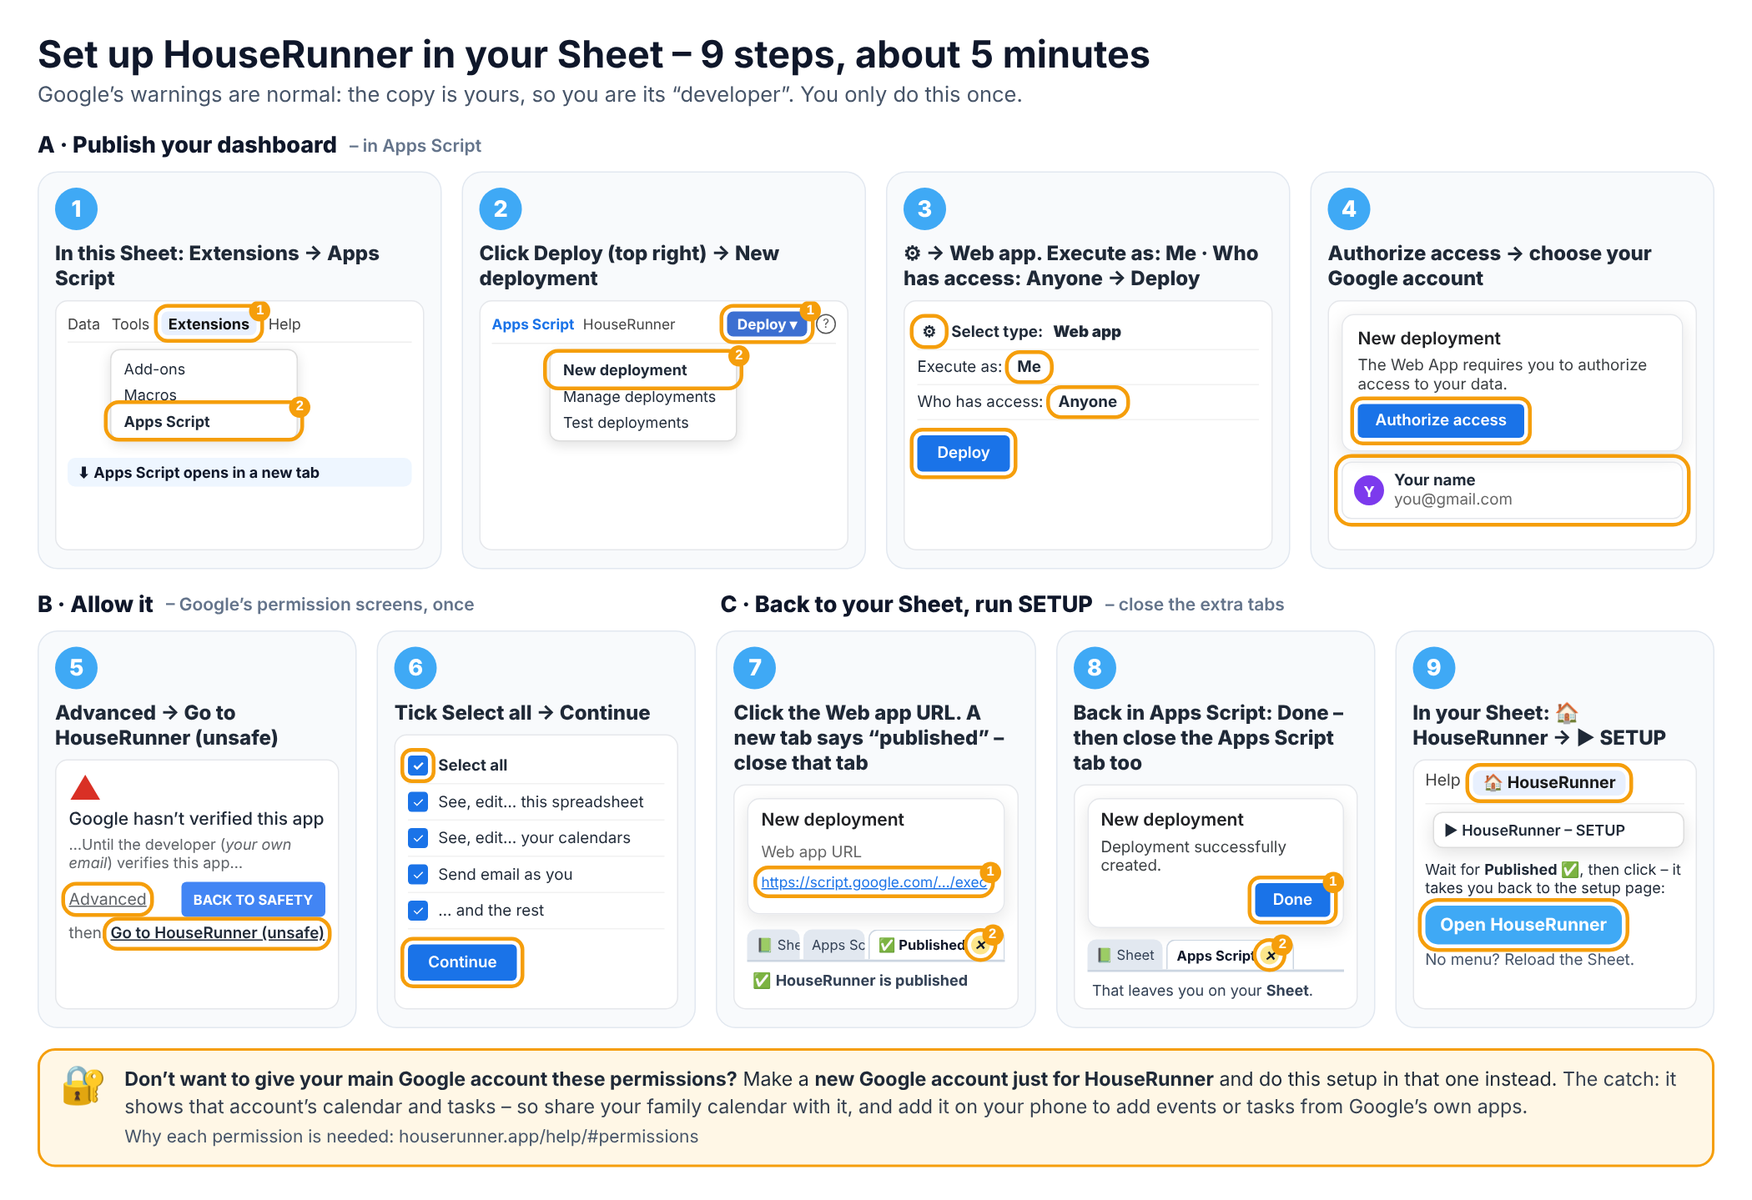
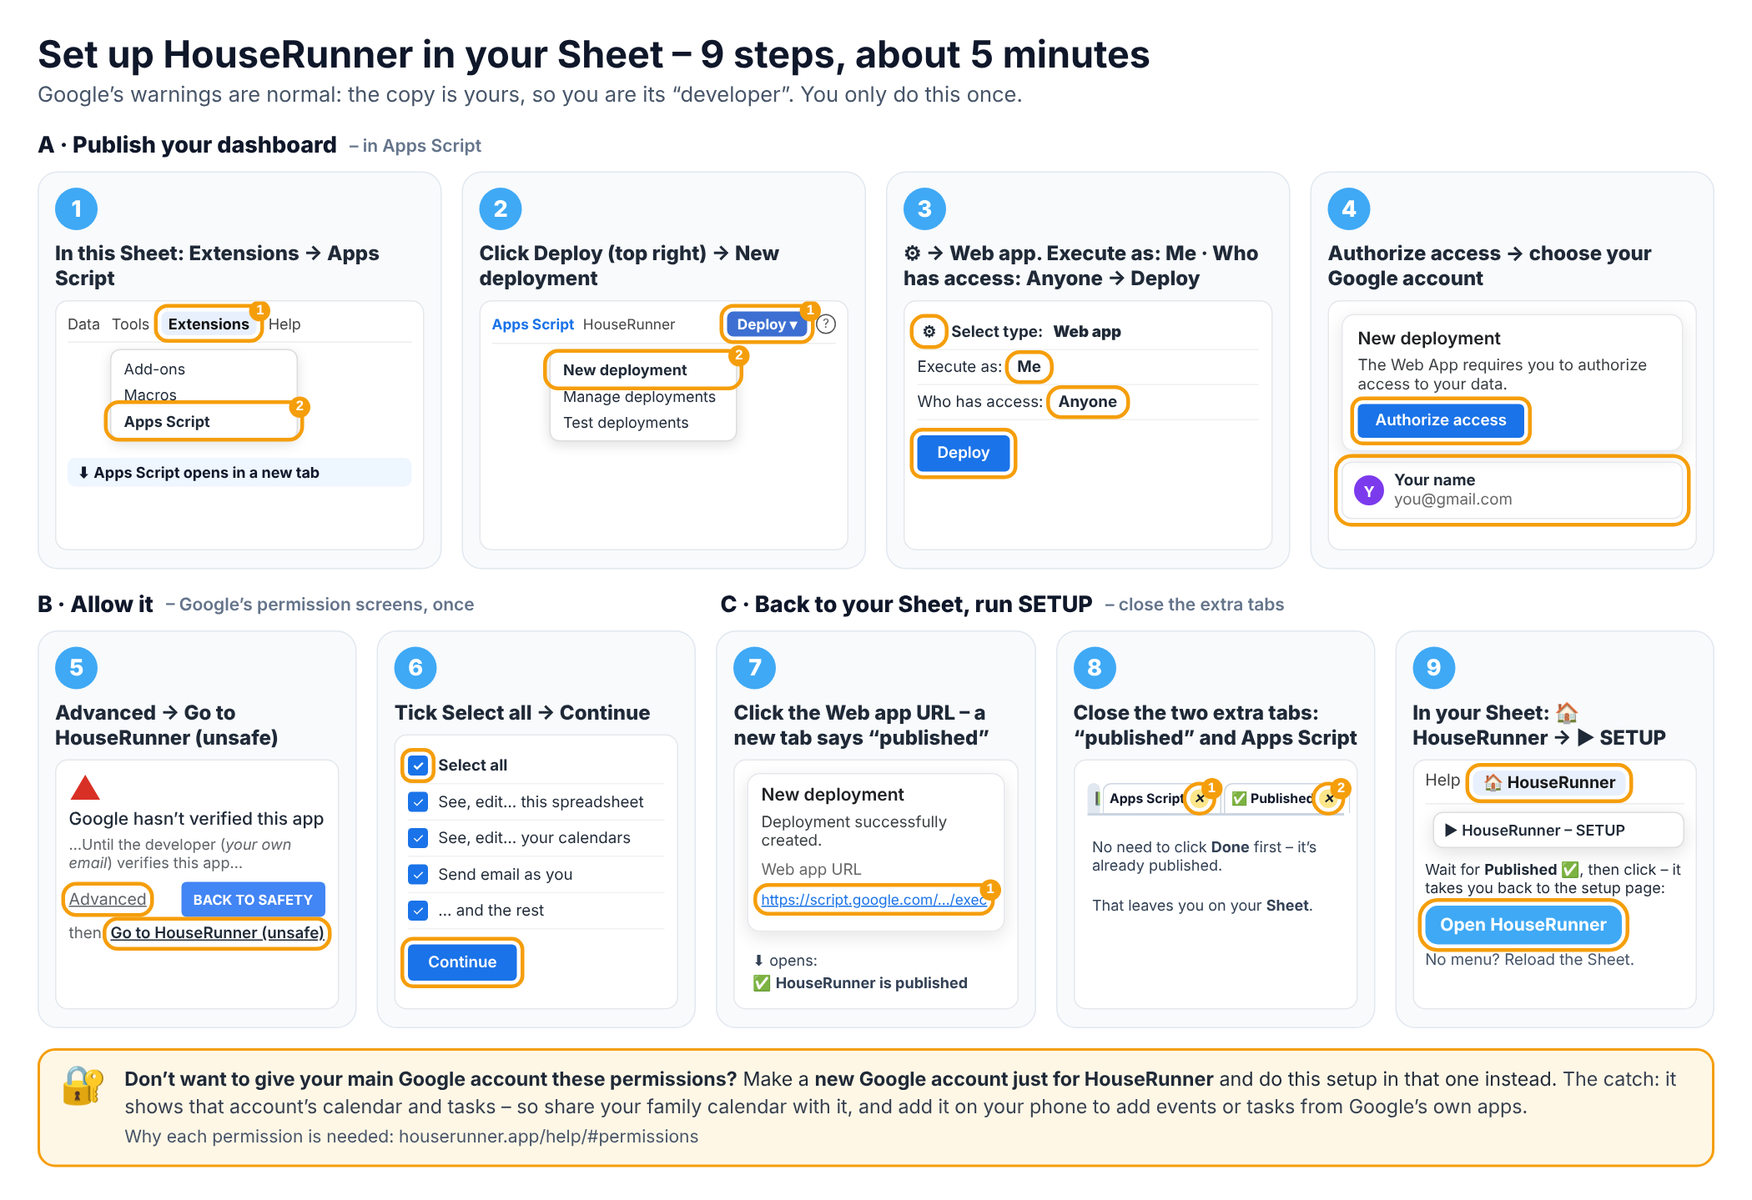
2026.11.292: instant hand-back, close-the-Sheet message, Privacy notice step
Claude-Session: https://claude.ai/code/session_01R2kV4GW3UVFR51NzUKtdLQ

Changed region(s): [[0.619, 0.581, 0.7738, 0.8256], [0.4024, 0.6115, 0.5881, 0.8256]]

diff --git a/setup/guide/setup.js b/setup/guide/setup.js
@@ -678,6 +678,8 @@
     var NEW = [
         { id: 'start', title: 'Make your Google Sheet', render: function () {
             if (connected()) return OLD.sheet.render();
+            if (window.hrConnecting) return '<h1>⏳ Connecting to your new Sheet…</h1><p class="lead">Your Sheet says it’s published – this page is connecting to it now. Google can take up to a minute after publishing; it keeps trying by itself.</p>' +
+                '<div class="status">⏳ Connecting…</div>';
             if (window.hrCopiedNow) return '<h1>⏳ Over to your new Sheet</h1>' +       // straight after Make my copy: one clear thing to do
                 '<p class="lead">Your copy opened in a new tab. <b>Follow the 9 steps on its Start HERE tab</b> – they look like this (click to enlarge):</p>' +
                 '<div class="card big" id="floatCard" style="margin:0 0 16px"><h3>📌 Keep the steps in view</h3><p>' + (window.HRFloat && HRFloat.floats ? 'A small window with the steps, one at a time, that <b>stays on top</b> while you work in the Sheet and Apps Script tabs.' : 'A small window with the steps, one at a time, to keep beside the Sheet while you work.') + '</p>' +
@@ -716,11 +718,12 @@
         }, ready: function () { return connected(); },
            blocked: 'Not connected yet – finish the steps in your Sheet (🏠 HouseRunner → ▶ HouseRunner – SETUP). This page carries on by itself.' },
         OLD.publish,
-        { id: 'welcome', title: 'Welcome', render: function () {
+        { id: 'welcome', title: 'Privacy notice', render: function () {
             if (connected() && !S.mode) return OLD.welcome.render();      // run again on a family that's set up: change it, or clear and start again?
             return (S.mode === 'fresh' && S.backup ? '<div class="note ok">🧹 Cleared, ready to set up again. Your backup is <a href="' + esc(S.backup.url) + '" target="_blank" rel="noopener">' + esc(S.backup.name) + '</a> in your Google Drive.</div>' : '') +
-                '<h1>Welcome</h1><p class="lead">' + (connected() ? 'Your Google Sheet is connected. ' : '') + 'A few short steps to go: this one, your licence key, your family, your calendar, and connecting your screen and phones.</p>' +
-                bare(OLD.privacy.render()).replace(/^\s*<p class="lead">[\s\S]*?<\/p>/, '<p>First, what HouseRunner keeps about your family, and where. In short – everything stays in your own Google account.</p>');
+                (window.hrArrived && connected() ? '<div class="note ok arrived big-ok"><h2>✅ Your Google Sheet is made and connected</h2><p>That part’s done – you can close any Sheet or Apps Script tabs still open. Now the rest of the setup, here: the privacy notice, your licence key, your family, your calendar, and connecting your screen and phones.</p></div>' : '') +
+                '<h1>Privacy notice</h1><p class="lead">' + (connected() && !window.hrArrived ? 'Your Google Sheet is connected. ' : '') + 'What HouseRunner keeps about your family, and where. In short – everything stays in your own Google account.</p>' +
+                bare(OLD.privacy.render()).replace(/^\s*<p class="lead">[\s\S]*?<\/p>/, '');
         }, wire: function () { OLD.welcome.wire(); OLD.privacy.wire(); },
            ready: function () { return (!connected() || !!S.mode) && S.privacy === P.version; },
            blocked: 'Tick the box to accept the privacy notice first' },
@@ -968,23 +971,50 @@
     // Connected in another tab (the Sheet's "Open HouseRunner" opens a new one): this tab catches up too
     // The setup tabs talk on one channel: "anyone" (a tab the Sheet just opened asks whether the setup tab is still open) → "here"
     var HRB = { postMessage: function () {} }; try { HRB = new BroadcastChannel('hr-setup'); } catch (e) { /* older browser */ }
-    var hrbListen = function (e) { if (e && e.data === 'anyone') { try { HRB.postMessage('here'); } catch (x) { /* fine */ } } else catchUp(); };
+    var hrbListen = function (e) {
+        if (e && e.data === 'anyone') { try { HRB.postMessage('here'); } catch (x) { /* fine */ } }
+        else if (e && e.data === 'connect') takeOver();
+        else catchUp();
+    };
+    /** The Sheet's "Open HouseRunner" opened a new tab, which handed over to this one: connect here, and carry on here. */
+    var takeOver = function () {
+        if (window.hrConnecting) return;
+        var mine = S.step; S = load(); S.step = mine;
+        ADM = null; LICP = null; window.hrCopiedNow = false; window.hrConnecting = true; render();
+        try { window.focus(); } catch (e) { /* the browser decides */ }
+        var tries = 0;
+        (function one() {
+            connect(true).then(function (ok) {
+                if (ok) {
+                    if (!S.mode) S.mode = 'new';
+                    var ids = STEPS.map(function (x) { return x.id; });
+                    S.step = SOLO ? S.step : ids.indexOf(S.privacy === P.version ? (S.licOk || S.licensed ? 'family' : 'licence') : 'welcome'); save();
+                    arrived();
+                    if (!ADM) loadAdm(); licenceNow();
+                    var t0 = document.title, n = 0, fl = setInterval(function () { document.title = ++n % 2 ? '✅ Carry on here – HouseRunner' : t0; if (n > 11 || !document.hidden) { clearInterval(fl); document.title = t0; } }, 900);
+                } else if (++tries <= 24) setTimeout(one, 5000);
+                else { window.hrConnecting = false; render(); toast('Your Sheet isn’t answering yet – in the Sheet choose 🏠 HouseRunner → ▶ SETUP again, then Open HouseRunner', true); }
+            });
+        })();
+    };
     var arrived = function () {
         if (window.HRFloat) HRFloat.close();      // the steps window has done its job
         toast('Connected to your HouseRunner Google Sheet \u2705');
+        window.hrArrived = true; window.hrConnecting = false; render();
         var pg = $('page'); if (pg && !pg.querySelector('.arrived')) pg.insertAdjacentHTML('afterbegin', '<div class="note ok arrived">✅ <b>Your Google Sheet is published and connected – that part’s done.</b> You can close the Sheet’s tab. ' +
             'Carry on with this step, then press <b>Next →</b> at the bottom right.</div>');
         $('next').classList.add('pulse'); setTimeout(function () { $('next').classList.remove('pulse'); }, 12000);
     };
     var handedOver = function () {
         window.hrHanded = true;
-        $('page').innerHTML = '<div class="card big moved"><h1>✅ Connected – back to your setup tab</h1><p class="lead">Your Google Sheet is published and connected. Setup carries on in the <b>HouseRunner setup tab</b> you started in – this tab can close.</p>' +
+        $('page').innerHTML = '<div class="card big moved"><h1>↩ Back to your setup tab…</h1><p class="lead">Setup carries on in the <b>HouseRunner setup tab</b> you started in – this tab closes by itself. If you land on your Sheet, close its tab too.</p>' +
             '<button class="btn ghost" id="suHere">Carry on in this tab instead</button></div>';
         $('next').style.visibility = 'hidden'; $('back').style.visibility = 'hidden';
         $('suHere').onclick = function () { window.hrHanded = false; $('next').style.visibility = ''; $('back').style.visibility = ''; HRB.onmessage = hrbListen; render(); arrived(); };
-        setTimeout(function () { try { window.close(); } catch (e) { /* not allowed: the message says what to do */ } }, 1500);
+        setTimeout(function () { try { window.close(); } catch (e) { /* not allowed: the message says what to do */ } }, 900);
     };
     var catchUp = function () {
+        if (window.hrHanded) return;      // this tab handed over to the one the user started in
         var was = connected(), mine = S.step, draftU = S.urlDraft; S = load(); S.step = mine; if (draftU != null) S.urlDraft = draftU;   // this tab stays on the page it shows
         if (!was && connected()) {
             // The Sheet's "Open HouseRunner" just connected (in a tab that closes itself): this tab – the one the user started in – carries on
@@ -1063,6 +1093,18 @@
             var changed = p.api !== S.url || p.code !== S.code;
             S.url = p.api; S.code = p.code; if (changed) S.connected = false; save();
         }
+        if (p.from === 'sheet' && p.api && p.code && !SOLO) {
+            $('page').innerHTML = '<div class="card big"><h1>⏳ One moment…</h1><p class="lead">Finding your HouseRunner setup tab.</p></div>';
+            var heard = false;
+            try {
+                HRB.onmessage = function (e) { if (e.data === 'here' && !heard) { heard = true; HRB.postMessage('connect'); handedOver(); } };
+                HRB.postMessage('anyone');
+            } catch (e) { /* older browser: carry on here */ }
+            setTimeout(function () { if (!heard) { HRB.onmessage = hrbListen; boot2(); } }, 700);
+            return;
+        }
+        boot2();
+        function boot2() {
         render();
         var after = function () {
             var ids = STEPS.map(function (x) { return x.id; });
@@ -1073,15 +1115,7 @@
                 S.step = S.privacy === P.version ? ids.indexOf(S.licOk || S.licensed ? 'family' : 'licence') : ids.indexOf(SOLO ? 'privacy' : 'welcome');
             }
             render();
-            if (p.from === 'sheet' && connected()) {
-                // Is the setup tab the user started in still open? Then hand over to it and close this one.
-                var asked = false;
-                try {
-                    HRB.onmessage = function (e) { if (e.data === 'here' && !asked) { asked = true; handedOver(); } };
-                    HRB.postMessage('anyone');
-                } catch (e) { /* older browser */ }
-                setTimeout(function () { if (!asked) { HRB.onmessage = hrbListen; arrived(); } }, 900);
-            }
+            if (p.from === 'sheet' && connected()) arrived();      // no setup tab to go back to: carry on in this one
         };
         // From the Sheet's "Published ✅": a dashboard published a moment ago can take a minute to answer, so keep trying
         var patient = function () {
@@ -1101,5 +1135,6 @@
         // Read the Sheet (family, calendar) and the licence in the background, so the steps open straight away
         var ahead = function () { if (connected()) { if (!ADM) loadAdm(); licenceNow(); } };
         pending.then(refreshVersions).then(after, after).then(ahead, ahead);
+        }
     })();
 })();

diff --git a/index.html b/index.html
@@ -24,11 +24,11 @@
         window.FD_DESK = true; window.FD_PHONE = !!phone;
     })();
     </script>
-    <link rel="stylesheet" href="shared/base.css?v=202611291">
-    <link rel="stylesheet" href="admin/admin.css?v=202611291">
-    <link rel="stylesheet" href="setup/desk.css?v=202611291">
-    <link rel="stylesheet" href="setup/editor.css?v=202611291">
-    <link rel="stylesheet" href="admin/phone.css?v=202611291">
+    <link rel="stylesheet" href="shared/base.css?v=202611292">
+    <link rel="stylesheet" href="admin/admin.css?v=202611292">
+    <link rel="stylesheet" href="setup/desk.css?v=202611292">
+    <link rel="stylesheet" href="setup/editor.css?v=202611292">
+    <link rel="stylesheet" href="admin/phone.css?v=202611292">
     <style>
 #landing { min-height: 100vh; }
 #landing .ld-wrap { max-width: 1100px; margin: 0 auto; padding: 30px 18px 50px; }
@@ -206,20 +206,20 @@
     </div></div>
     <!-- Connected: houserunner.app (computer) or Family Admin (phone) – the same app. -->
     <div id="app"></div>
-    <script src="shared/storecheck.js?v=202611291"></script>
-    <script src="shared/fd.js?v=202611291"></script>
-    <script src="dashboard/scripts/platform.js?v=202611291"></script>
-    <script src="shared/pair.js?v=202611291"></script>
-    <script src="shared/qrcode.js?v=202611291"></script>
-    <script src="shared/privacy.js?v=202611291"></script>
-    <script src="shared/countries.js?v=202611291"></script>
-    <script src="setup/config.js?v=202611291"></script>
-    <script src="help/topics.js?v=202611291"></script>
-    <script src="setup/editor.js?v=202611291"></script>
-    <script src="setup/calsetup.js?v=202611291"></script>
-    <script src="shared/icons.js?v=202611291"></script>
+    <script src="shared/storecheck.js?v=202611292"></script>
+    <script src="shared/fd.js?v=202611292"></script>
+    <script src="dashboard/scripts/platform.js?v=202611292"></script>
+    <script src="shared/pair.js?v=202611292"></script>
+    <script src="shared/qrcode.js?v=202611292"></script>
+    <script src="shared/privacy.js?v=202611292"></script>
+    <script src="shared/countries.js?v=202611292"></script>
+    <script src="setup/config.js?v=202611292"></script>
+    <script src="help/topics.js?v=202611292"></script>
+    <script src="setup/editor.js?v=202611292"></script>
+    <script src="setup/calsetup.js?v=202611292"></script>
+    <script src="shared/icons.js?v=202611292"></script>
     <!-- A phone gets Family Admin, written for the phone; a computer houserunner.app. -->
-    <script>document.write('<script src="admin/' + (window.FD_PHONE ? 'phone' : 'app') + '.js?v=202611291"><\/script>');</script>
+    <script>document.write('<script src="admin/' + (window.FD_PHONE ? 'phone' : 'app') + '.js?v=202611292"><\/script>');</script>
 <script>
  (function () {
    'use strict';

diff --git a/setup/guide/float.js b/setup/guide/float.js
@@ -11,9 +11,9 @@
         ['Authorize access → choose your Google account', 'Choose the account you want the family dashboard in.'],
         ['Advanced → Go to HouseRunner (unsafe)', 'Google warns because the copy is yours – you’re its “developer”. That’s normal: click <b>Advanced</b>, then <b>Go to HouseRunner (unsafe)</b>.'],
         ['Tick Select all → Continue', 'Every permission is needed – tick <b>Select all</b> at the top.'],
-        ['Click the Web app URL – then close the tab it opens', 'A new tab says <b>HouseRunner is published</b>. Close that tab (its ✕).'],
-        ['Back in Apps Script: Done – then close the Apps Script tab', 'That leaves you on your <b>Sheet</b>.'],
-        ['In your Sheet: 🏠 HouseRunner → ▶ SETUP', 'Wait for <b>Published ✅</b>, then click <b>Open HouseRunner</b>. It brings you back to the setup page and this guide closes by itself.<br><span class="mute">No 🏠 HouseRunner menu? Reload the Sheet.</span>']
+        ['Click the Web app URL – a new tab says “published”', 'It’s under <b>Web app</b> in the <b>Deployment successfully created</b> box. A new tab opens saying <b>HouseRunner is published</b>.'],
+        ['Close the two extra tabs: “published” and Apps Script', 'Click the ✕ on each. No need to click <b>Done</b> first – it’s already published. That leaves you on your <b>Sheet</b>.'],
+        ['In your Sheet: 🏠 HouseRunner → ▶ SETUP', 'Wait for <b>Published ✅</b>, then click <b>Open HouseRunner</b>. Then close the Sheet’s tab too – setup carries on in your HouseRunner setup tab, and this guide closes by itself.<br><span class="mute">No 🏠 HouseRunner menu? Reload the Sheet.</span>']
     ];
     // The setup video, once there is one: its address and each step's part of it, in seconds ([from, to]).
     var VIDEO = null;    // e.g. { src: '../../shared/brand/setup.mp4', clips: [[0, 12], [12, 20], …] }

diff --git a/setup/guide/index.html b/setup/guide/index.html
@@ -6,8 +6,8 @@
     <title>HouseRunner Setup</title>
     <meta name="theme-color" content="#0c0e12">
     <link rel="icon" href="../../shared/brand/icon-192.png"><link rel="apple-touch-icon" href="../../shared/brand/apple-touch-icon.png">
-    <link rel="stylesheet" href="../editor.css?v=202611291">
-    <link rel="stylesheet" href="setup.css?v=202611291">
+    <link rel="stylesheet" href="../editor.css?v=202611292">
+    <link rel="stylesheet" href="setup.css?v=202611292">
 </head>
 <body>
     <header class="cfg-top"><a class="cfg-title hr-title" href="../../"><img src="../../shared/brand/mark.svg" alt="" class="hr-mini"><span>House<span class="hr-acc">Runner</span></span></a><a class="cfg-dash" href="../../dashboard/" target="_blank" rel="noopener">▶ Dashboard</a><a class="cfg-help" href="../../help/" target="_blank" rel="noopener">❓ Help</a></header>
@@ -29,9 +29,9 @@
     <script src="../../shared/countries.js"></script>
     <script src="../../shared/pair.js"></script>
     <script src="../../shared/qrcode.js"></script>
-    <script src="../calsetup.js?v=202611291"></script>
-    <script src="../../shared/storecheck.js?v=202611291"></script>
-    <script src="float.js?v=202611291"></script>
-    <script src="setup.js?v=202611291"></script>
+    <script src="../calsetup.js?v=202611292"></script>
+    <script src="../../shared/storecheck.js?v=202611292"></script>
+    <script src="float.js?v=202611292"></script>
+    <script src="setup.js?v=202611292"></script>
 </body>
 </html>

diff --git a/sw.js b/sw.js
@@ -1,6 +1,6 @@
 /* Keeps houserunner.app (the Configurator / Family Admin) available offline. Family data always comes live from Google.
  * The screen, the Family Calendar app and the licence pages look after themselves, so they're left alone here. */
-const CACHE = 'root-v145';
+const CACHE = 'root-v146';
 const FILES = ["./", "index.html", "manifest.webmanifest", "admin/app.js", "admin/phone.js", "admin/phone.css", "admin/admin.css", "admin/icons/icon-192.png", "setup/desk.css", "setup/editor.css", "setup/editor.js", "setup/calsetup.js", "setup/config.js",
   "help/topics.js", "shared/fd.js", "shared/head.js", "shared/storecheck.js", "shared/move.js", "shared/base.css", "shared/brand/mark.svg", "shared/privacy.js", "shared/countries.js", "shared/icons.js", "shared/pair.js", "shared/qrcode.js"];
 const OWN = /^\/(screen|dashboard|calendar|licencing|windows|downloads|Scripts)\//;

diff --git a/admin/sw.js b/admin/sw.js
@@ -1,5 +1,5 @@
 /* Keeps the app itself available offline. Calendar and points data always come live from Google. */
-const CACHE = 'admin-v294';
+const CACHE = 'admin-v295';
 const FILES = ["./", "index.html", "app.js", "admin.css", "manifest.webmanifest", "icons/icon-192.png", "../shared/fd.js", "../shared/storecheck.js", "../shared/move.js", "../shared/base.css", "../shared/brand/symbol.svg", "../shared/privacy.js", "../shared/countries.js", "../shared/pair.js", "../shared/qrcode.js"];
 self.addEventListener('install', e => { e.waitUntil(caches.open(CACHE).then(c => c.addAll(FILES)).then(() => self.skipWaiting())); });
 self.addEventListener('activate', e => { e.waitUntil(caches.keys().then(ks => Promise.all(ks.filter(k => k.startsWith('admin-') && k !== CACHE).map(k => caches.delete(k)))).then(() => self.clients.claim())); });

diff --git a/calendar/sw.js b/calendar/sw.js
@@ -1,5 +1,5 @@
 /* Keeps the app itself available offline. Calendar and points data always come live from Google. */
-const CACHE = 'calendar-v282';
+const CACHE = 'calendar-v283';
 const FILES = ["./", "index.html", "app.js", "calendar.css", "manifest.webmanifest", "icons/icon-192.png", "../shared/fd.js", "../shared/storecheck.js", "../shared/move.js", "../shared/base.css", "../shared/brand/symbol.svg", "../shared/pair.js", "../shared/qrcode.js"];
 self.addEventListener('install', e => { e.waitUntil(caches.open(CACHE).then(c => c.addAll(FILES)).then(() => self.skipWaiting())); });
 self.addEventListener('activate', e => { e.waitUntil(caches.keys().then(ks => Promise.all(ks.filter(k => k.startsWith('calendar-') && k !== CACHE).map(k => caches.delete(k)))).then(() => self.clients.claim())); });

diff --git a/shared/fd.js b/shared/fd.js
@@ -191,7 +191,7 @@
         clearConfig: function () { cfg = {}; try { localStorage.removeItem(KEY); } catch (e) { /* ignore */ } },
         parseSetup: parseSetup,
 
-        VERSION: '2026.11.291',     // the phone apps' version (same number as the screen's)
+        VERSION: '2026.11.292',     // the phone apps' version (same number as the screen's)
         get: function (action, params, timeout) {
             var q = 'action=' + encodeURIComponent(action) + '&code=' + encodeURIComponent(cfg.code) + '&t=' + Date.now();
             Object.keys(params || {}).forEach(function (k) { q += '&' + k + '=' + encodeURIComponent(params[k]); });

diff --git a/setup/guide/setup.css b/setup/guide/setup.css
@@ -215,3 +215,6 @@ main > .nav { position: sticky; bottom: 0; z-index: 5; background: var(--bg, #0c
 @keyframes nxpulse { 0%, 100% { box-shadow: 0 0 0 0 rgba(63,169,245,.7); } 50% { box-shadow: 0 0 0 10px rgba(63,169,245,0); } }
 .card.moved h1 { font-size: 26px; }
 .step-pic { display: block; width: 100%; max-width: 440px; margin: 10px 0 4px; border-radius: 10px; border: 1px solid var(--line); }
+.note.big-ok { padding: 18px 22px; border-radius: 14px; margin-bottom: 22px; }
+.note.big-ok h2 { margin: 0 0 6px; font-size: 22px; }
+.note.big-ok p { margin: 0; font-size: 15.5px; }

diff --git a/dashboard/scripts/notices.js b/dashboard/scripts/notices.js
@@ -6,7 +6,7 @@
  */
 (function () {
     'use strict';
-    var APP_VERSION = '2026.11.291';
+    var APP_VERSION = '2026.11.292';
     var SNOOZE_KEY = 'familyDashboard.updateSnooze', SCRIPT_KEY = 'familyDashboard.scriptNag';
     var latest = null, lastLayout = null, privacyOpen = false, lastTouch = Date.now(), updating = false;
     var IDLE_MS = 3 * 60000;
